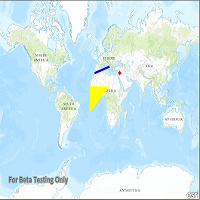
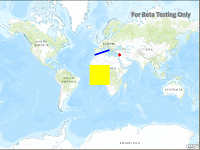
DisplayInfo cpp samples

diff --git a/ArcGISRuntimeSDKQt_QMLSamples/DisplayInformation/GORenderers/GORenderers.qml b/ArcGISRuntimeSDKQt_QMLSamples/DisplayInformation/GORenderers/GORenderers.qml
@@ -156,7 +156,7 @@ Rectangle {
         // create the polygon by assigning points
         polygonBuilder.addPointXY(-20e5, 20e5);
         polygonBuilder.addPointXY(20e5, 20e5);
-        polygonBuilder.addPointXY(-20e5, -20e5);
+        polygonBuilder.addPointXY(20e5, -20e5);
         polygonBuilder.addPointXY(-20e5, -20e5);
         // assign the geometry of the graphic to be the polygon
         polygonGraphic.geometry = polygonBuilder.geometry;

diff --git a/ArcGISRuntimeSDKQt_CppSamples/DisplayInformation/GORenderers/GORenderers.cpp b/ArcGISRuntimeSDKQt_CppSamples/DisplayInformation/GORenderers/GORenderers.cpp
@@ -1,0 +1,119 @@
+// [WriteFile Name=ManageBookmarks, Category=Maps]
+// [Legal]
+// Copyright 2015 Esri.
+
+// Licensed under the Apache License, Version 2.0 (the "License");
+// you may not use this file except in compliance with the License.
+// You may obtain a copy of the License at
+// http://www.apache.org/licenses/LICENSE-2.0
+
+// Unless required by applicable law or agreed to in writing, software
+// distributed under the License is distributed on an "AS IS" BASIS,
+// WITHOUT WARRANTIES OR CONDITIONS OF ANY KIND, either express or implied.
+// See the License for the specific language governing permissions and
+// limitations under the License.
+// [Legal]
+
+#include "GoRenderers.h"
+#include "Map.h"
+#include "MapView.h"
+#include "Viewpoint.h"
+#include "SpatialReference.h"
+#include "Point.h"
+#include "PolylineBuilder.h"
+#include "Polyline.h"
+#include "PolygonBuilder.h"
+#include "Polygon.h"
+#include "Graphic.h"
+#include "GraphicsOverlay.h"
+#include "SimpleMarkerSymbol.h"
+#include "SimpleLineSymbol.h"
+#include "SimpleFillSymbol.h"
+#include "SimpleRenderer.h"
+#include <QGraphicsProxyWidget>
+#include <QVBoxLayout>
+
+using namespace Esri::ArcGISRuntime;
+
+GoRenderers::GoRenderers(QWidget* parent) :
+    QWidget(parent),
+    m_map(nullptr),
+    m_mapView(nullptr)
+{        
+    // Create a map using the imagery with labels basemap
+    m_map = new Map(Basemap::topographic(this), this);
+
+    // Create a map view, and pass in the map
+    m_mapView = new MapView(m_map, this);
+
+    // add the graphics overlays
+    addGraphicsOverlay();
+
+    createUi();
+}
+
+void GoRenderers::addGraphicsOverlay()
+{
+  // create the point geometry
+  Point pointGeometry(40e5, 40e5, SpatialReference::webMercator());
+  // create the point symbol
+  SimpleMarkerSymbol* pointSymbol = new SimpleMarkerSymbol(SimpleMarkerSymbolStyle::Diamond, QColor("red"), 10, this);
+  // Point graphic
+  Graphic* pointGraphic = new Graphic(pointGeometry, this);
+
+  // create a graphic overlay to display the point graphic
+  GraphicsOverlay* pointGraphicOverlay = new GraphicsOverlay(this);
+  // set the renderer of the overlay to be the marker symbol
+  pointGraphicOverlay->setRenderer(new SimpleRenderer(pointSymbol, this));
+  // add the graphic to the overlay
+  pointGraphicOverlay->graphics()->append(pointGraphic);
+  // add the overlay to the mapview
+//  m_mapView->graphicsOverlays()->append(pointGraphicOverlay);
+
+  // create line geometry
+  PolygonBuilder polylineBuilder(SpatialReference::webMercator());
+  // build the polyline
+  polylineBuilder.addPoint(-10e5, 40e5);
+  polylineBuilder.addPoint(20e5, 50e5);
+  // create a line symbol
+  SimpleLineSymbol* sls = new SimpleLineSymbol(SimpleLineSymbolStyle::Solid, QColor("blue"), 5, true, 1.0, this);
+  // create a line graphic
+  Graphic* lineGraphic = new Graphic(polylineBuilder.toGeometry());
+
+  // create a graphic overlay to display the line graphic
+  GraphicsOverlay* lineGraphicOverlay = new GraphicsOverlay(this);
+  // set the renderer of the graphic overlay to be the line symbol
+  lineGraphicOverlay->setRenderer(new SimpleRenderer(sls, this));
+  // add the graphic to the overlay
+  lineGraphicOverlay->graphics()->append(lineGraphic);
+  // add the overlay to the mapview
+//  m_mapView->graphicsOverlays()->append(lineGraphicOverlay);
+
+  // create the polygon geometry
+  PolygonBuilder polygonBuilder(SpatialReference::webMercator());
+  polygonBuilder.addPoint(-20e5, 20e5);
+  polygonBuilder.addPoint(20e5, 20e5);
+  polygonBuilder.addPoint(20e5, -20e5);
+//  polygonBuilder.addPoint(-20e5, -20e5);
+  SimpleFillSymbol* sfs = new SimpleFillSymbol(SimpleFillSymbolStyle::Solid, QColor("yellow"), 0.7f, this);
+  Graphic* polygonGraphic = new Graphic(polygonBuilder.toGeometry(), this);
+
+  GraphicsOverlay* polygonGraphicsOverlay = new GraphicsOverlay(this);
+  polygonGraphicsOverlay->setRenderer(new SimpleRenderer(sfs, this));
+  polygonGraphicsOverlay->graphics()->append(polygonGraphic);
+  m_mapView->graphicsOverlays()->append(polygonGraphicsOverlay);
+}
+
+void GoRenderers::createUi()
+{
+    QVBoxLayout* layout = new QVBoxLayout();
+    layout->setMargin(10);
+
+    QVBoxLayout* vBoxLayout = new QVBoxLayout();
+    vBoxLayout->addWidget(m_mapView);
+    setLayout(vBoxLayout);
+}
+
+GoRenderers::~GoRenderers()
+{
+}

diff --git a/ArcGISRuntimeSDKQt_CppSamples/DisplayInformation/GORenderers/GORenderers.h b/ArcGISRuntimeSDKQt_CppSamples/DisplayInformation/GORenderers/GORenderers.h
@@ -1,0 +1,36 @@
+// Copyright 2015 Esri.
+
+// Licensed under the Apache License, Version 2.0 (the "License");
+// you may not use this file except in compliance with the License.
+// You may obtain a copy of the License at
+// http://www.apache.org/licenses/LICENSE-2.0
+
+// Unless required by applicable law or agreed to in writing, software
+// distributed under the License is distributed on an "AS IS" BASIS,
+// WITHOUT WARRANTIES OR CONDITIONS OF ANY KIND, either express or implied.
+// See the License for the specific language governing permissions and
+// limitations under the License.
+
+#ifndef GORENDERERS_H
+#define GORENDERERS_H
+
+#include "Map.h"
+#include "MapView.h"
+#include "Viewpoint.h"
+
+class GoRenderers : public QWidget
+{
+  Q_OBJECT
+
+public:
+  explicit GoRenderers(QWidget* parent = 0);
+  virtual ~GoRenderers();
+
+private:
+  Esri::ArcGISRuntime::Map* m_map;
+  Esri::ArcGISRuntime::MapView* m_mapView;
+  void addGraphicsOverlay();
+  void createUi();
+};
+
+#endif // GORENDERERS_H

diff --git a/ArcGISRuntimeSDKQt_CppSamples/DisplayInformation/GORenderers/main.cpp b/ArcGISRuntimeSDKQt_CppSamples/DisplayInformation/GORenderers/main.cpp
@@ -1,0 +1,28 @@
+// Copyright 2015 Esri.
+
+// Licensed under the Apache License, Version 2.0 (the "License");
+// you may not use this file except in compliance with the License.
+// You may obtain a copy of the License at
+// http://www.apache.org/licenses/LICENSE-2.0
+
+// Unless required by applicable law or agreed to in writing, software
+// distributed under the License is distributed on an "AS IS" BASIS,
+// WITHOUT WARRANTIES OR CONDITIONS OF ANY KIND, either express or implied.
+// See the License for the specific language governing permissions and
+// limitations under the License.
+
+#include "GoRenderers.h"
+#include <QApplication>
+#include <QMessageBox>
+
+int main(int argc, char *argv[])
+{
+  QApplication application(argc, argv);
+
+  GoRenderers applicationWindow;
+  applicationWindow.setMinimumWidth(800);
+  applicationWindow.setMinimumHeight(600);
+  applicationWindow.show();
+
+  return application.exec();
+}
